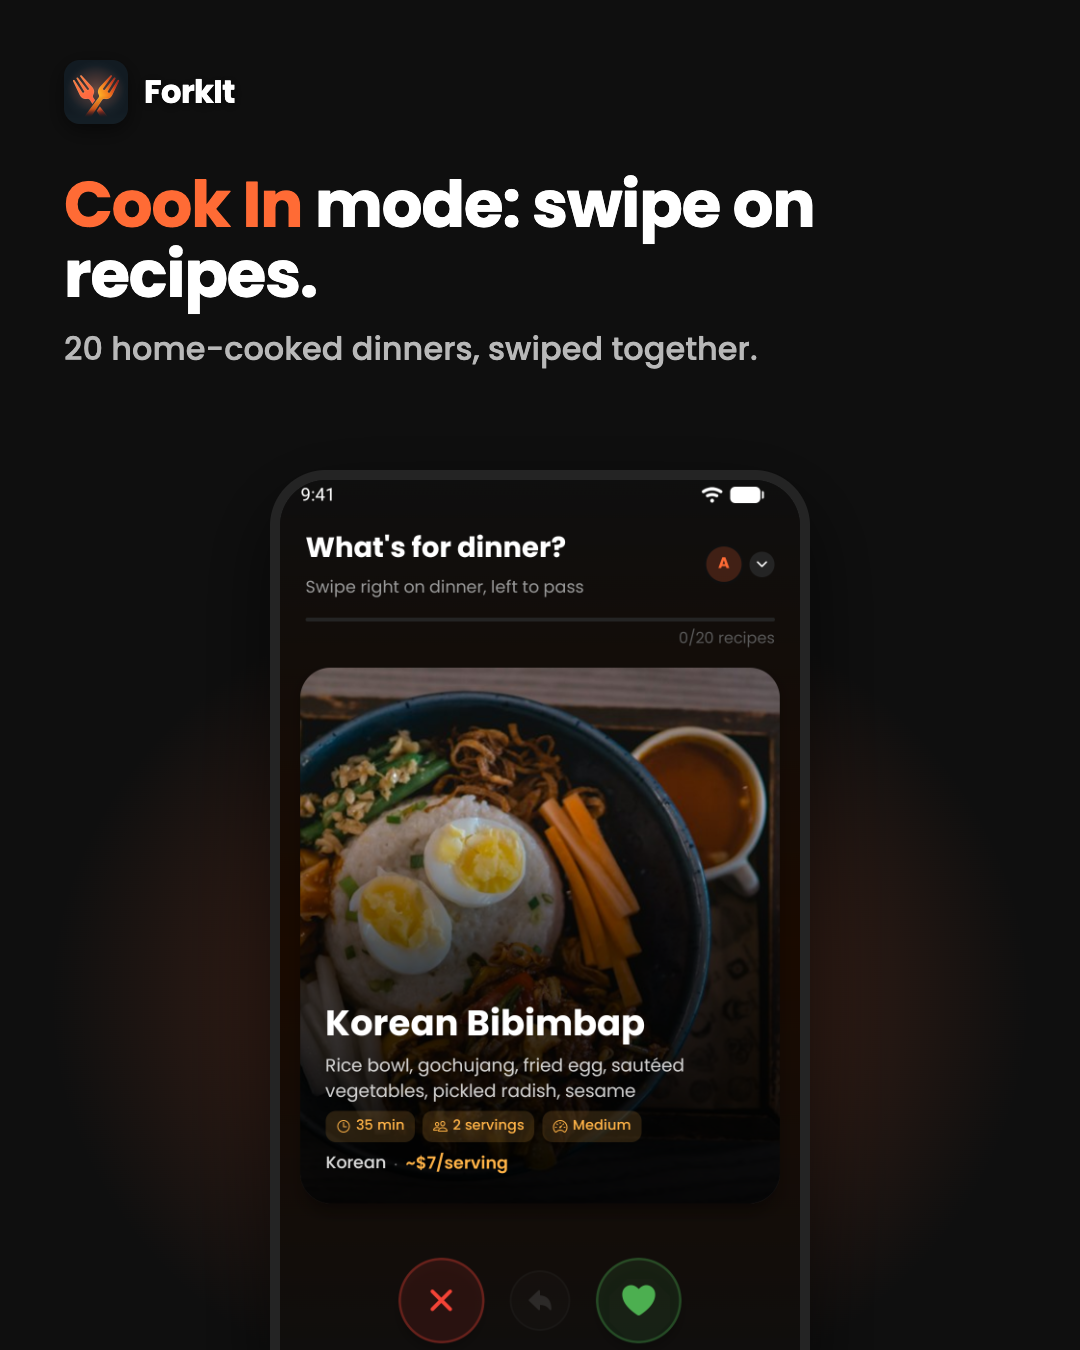
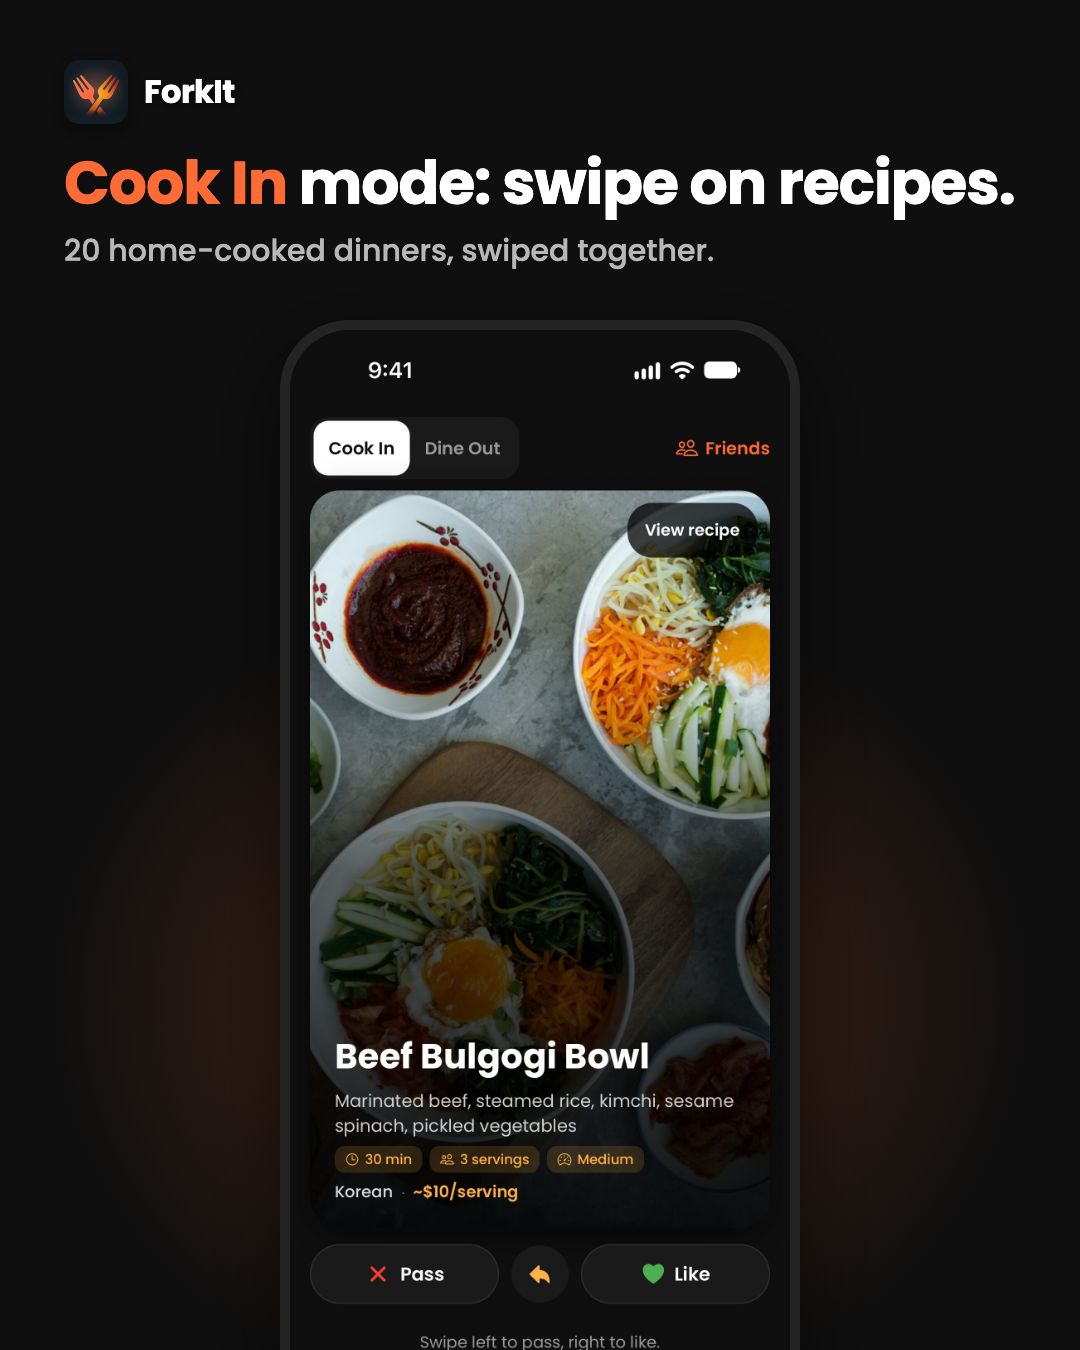
Show the v1.0.2 screens in the social carousels [skip eas]
Retake the app screenshots the launch carousels show on the iPhone 18 Pro
Simulator (sample restaurants only) and re-render every slide. The office
post now matches on lunch, Cook In gains a recipe slide, and the slide
template fits the taller iPhone frame.

Changed region(s): [[0.2444, 0.3111, 0.7639, 1.0], [0.0611, 0.0933, 0.9472, 0.28], [0.3361, 0.9333, 0.6722, 1.0]]

diff --git a/social/posts/slide.html b/social/posts/slide.html
@@ -3,9 +3,13 @@
   One carousel slide, 1080 x 1350 (Instagram 4:5). The slide is chosen by the
   query string, so social/render.sh renders every slide from this one file:
     ?type=hook&img=img/couple.jpg&title=...&sub=...    generated scene + headline
-    ?type=app&shot=04-swipe-card&title=...&sub=...     real app screenshot
+    ?type=app&shot=dine-out&title=...&sub=...          real app screenshot
+    ?type=app&shot=match-dinner&low=1&...              same, phone set lower
     ?type=cta&title=...                                 logo + where to get it
-  Needs node_modules installed (Poppins) and the Play screenshots.
+  Shots are shots/<name>.jpg, iPhone captures (see social/README.md). The phone
+  sits just under the headline and runs off the bottom edge; low=1 sets it
+  lower, which keeps a sample match's "Sample restaurants" notice off the
+  slide. Write + in a title as %2B. Needs node_modules installed (Poppins).
 -->
 <html>
 <head>
@@ -33,12 +37,13 @@
 
   /* app */
   .app { background: radial-gradient(700px 600px at 540px 1000px, rgba(255, 107, 53, 0.30), transparent 70%), #0F0F0F; }
-  .app .copy { position: absolute; left: 64px; right: 64px; top: 170px; }
-  .app h1 { font-size: 64px; line-height: 1.1; font-weight: 700; letter-spacing: -1px; }
-  .app p { margin-top: 16px; font-size: 32px; line-height: 1.4; font-weight: 500; color: #B8B8B8; }
+  .app .copy { position: absolute; left: 64px; right: 64px; top: 150px; }
+  .app h1 { font-size: 60px; line-height: 1.1; font-weight: 700; letter-spacing: -1px; }
+  .app p { margin-top: 14px; font-size: 30px; line-height: 1.4; font-weight: 500; color: #B8B8B8; }
+  /* 1206 x 2622 captures: 500 px wide inside the bezel. top is set below. */
   .app .phone {
-    position: absolute; left: 50%; transform: translateX(-50%); top: 470px;
-    width: 540px; height: 960px; border-radius: 56px; overflow: hidden;
+    position: absolute; left: 50%; transform: translateX(-50%);
+    width: 520px; height: 1107px; border-radius: 70px; overflow: hidden;
     border: 10px solid #242424; box-shadow: 0 30px 80px rgba(0, 0, 0, 0.6);
   }
   .app .phone img { width: 100%; display: block; }
@@ -60,14 +65,20 @@
   // *word* in a title turns that word orange.
   const fmt = (s) => esc(s).replace(/\*([^*]+)\*/g, "<em>$1</em>");
   const tag = '<div class="tag"><img src="../../assets/images/icon.png"><span>ForkIt</span></div>';
-  document.body.className = type;
+  document.body.className = type + (q.get("low") ? " low" : "");
   if (type === "hook") {
     document.body.innerHTML = `<img class="bg" src="${esc(q.get("img"))}"><div class="shade"></div>${tag}
       <div class="copy"><h1>${fmt(q.get("title"))}</h1>${q.get("sub") ? `<p>${fmt(q.get("sub"))}</p>` : ""}</div>
       <div class="swipe">swipe →</div>`;
   } else if (type === "app") {
     document.body.innerHTML = `${tag}<div class="copy"><h1>${fmt(q.get("title"))}</h1>${q.get("sub") ? `<p>${fmt(q.get("sub"))}</p>` : ""}</div>
-      <div class="phone"><img src="../../store/screenshots/play/${esc(q.get("shot"))}.png"></div>`;
+      <div class="phone"><img src="shots/${esc(q.get("shot"))}.jpg"></div>`;
+    // 48 px under the headline; a low phone shows the screen only down to
+    // about y = 2190 of 2622.
+    document.fonts.ready.then(() => {
+      const copy = document.querySelector(".copy").getBoundingClientRect().bottom;
+      document.querySelector(".phone").style.top = Math.max(copy + 48, q.get("low") ? 450 : 0) + "px";
+    });
   } else {
     document.body.innerHTML = `<img class="logo" src="../../assets/images/icon.png"><div class="name">ForkIt</div>
       <h1>${fmt(q.get("title") || "Swipe right on dinner")}</h1>

diff --git a/social/README.md b/social/README.md
@@ -2,8 +2,9 @@
 
 The playbook for ForkIt's social accounts: who we are online, what we post,
 and how each post gets made. Ready-to-post launch content is in
-[posts/](posts/); `posts/*.html` are the sources, rendered to PNG with headless
-Chrome (command in each file's header).
+[posts/](posts/): `posts/slide.html` is the slide template, `social/render.sh`
+renders every carousel slide to `posts/out/` with headless Chrome, and
+`posts/shots/` holds the app screenshots the slides show.
 
 ## The account
 
@@ -151,6 +152,29 @@ Every video is the same three parts:
 - Don't build ForkIt content on the Riley characters; scenes are generated
   without a character, or with ForkIt-only characters if we ever want a
   recurring cast.
+
+### App screenshots for slides
+
+`posts/shots/` are iPhone 18 Pro Simulator captures (1206 × 2622, JPEG) of
+version 1.0.2, retaken 2026-11-27 for its swipe-first screens: Cook In and Dine
+Out open straight onto the deck, and Friends → Invite a friend starts the room.
+To retake them:
+
+- Run the server with no Places key (`PORT=5055 npm run server:dev`), so every
+  Dine Out room is sample restaurants, and Metro with
+  `EXPO_PUBLIC_DOMAIN=localhost:5055` against a development build.
+- `xcrun simctl status_bar <sim> override --time 9:41 --batteryState discharging --batteryLevel 100`,
+  hide the dev client's Tools button (dev menu), name yourself Alex in Friends.
+- Extra members are WebSocket clients joined to the room by code (Maya, Sam,
+  Jordan, Priya, Leo); for a match, have some of them like the card on screen,
+  then tap Like.
+- Cover the dev build's version label under Friends, and the Dynamic Island in
+  captures that show it, with the background color.
+- Match slides use `low=1` so the sample match's "Sample restaurants" notice
+  stays below the slide edge; the card's own "Sample restaurant · not a real
+  place" label stays visible.
+
+Then run `social/render.sh` from the repo root.
 
 ### Rules that keep the account safe
 
